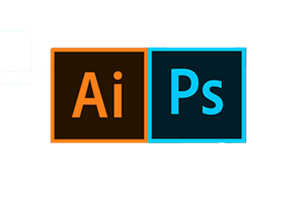
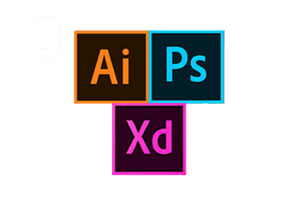
skill image update

diff --git a/index.html b/index.html
@@ -39,7 +39,7 @@
         <section>
             <article class="who">
                 <label>
-                    안녕하세요.<br />
+                    <br/><br/>
 
                 </label>
             </article>
